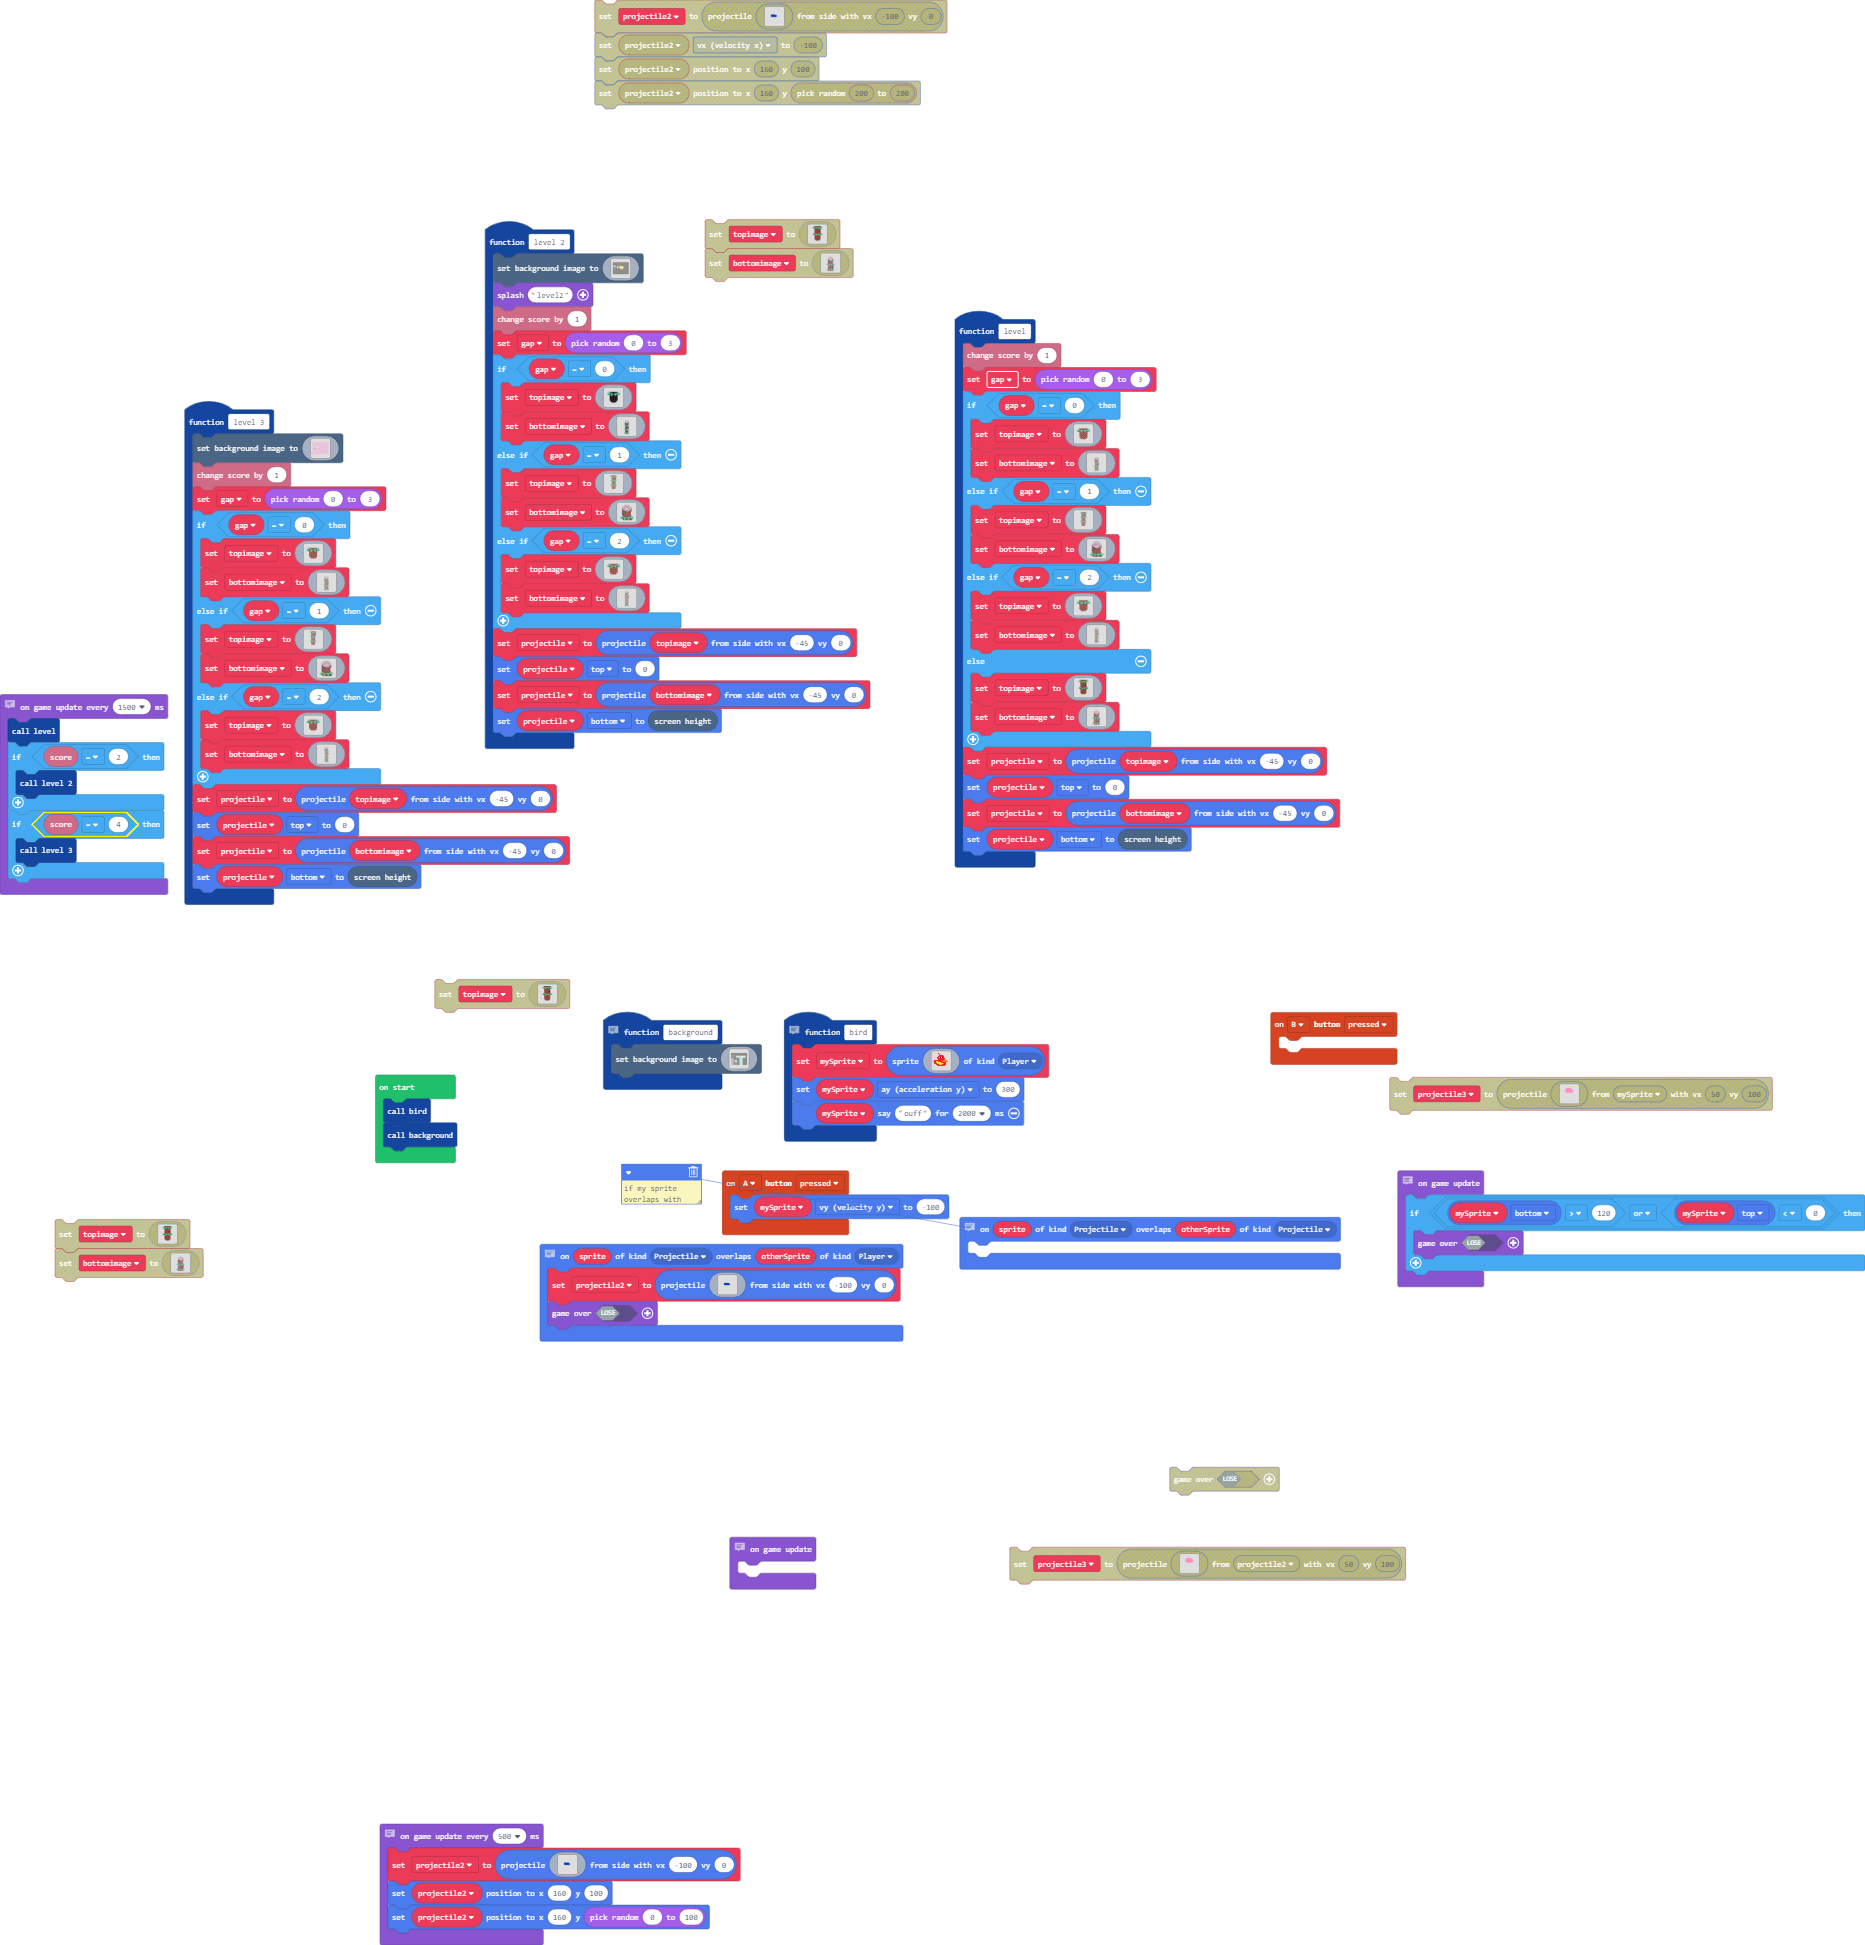
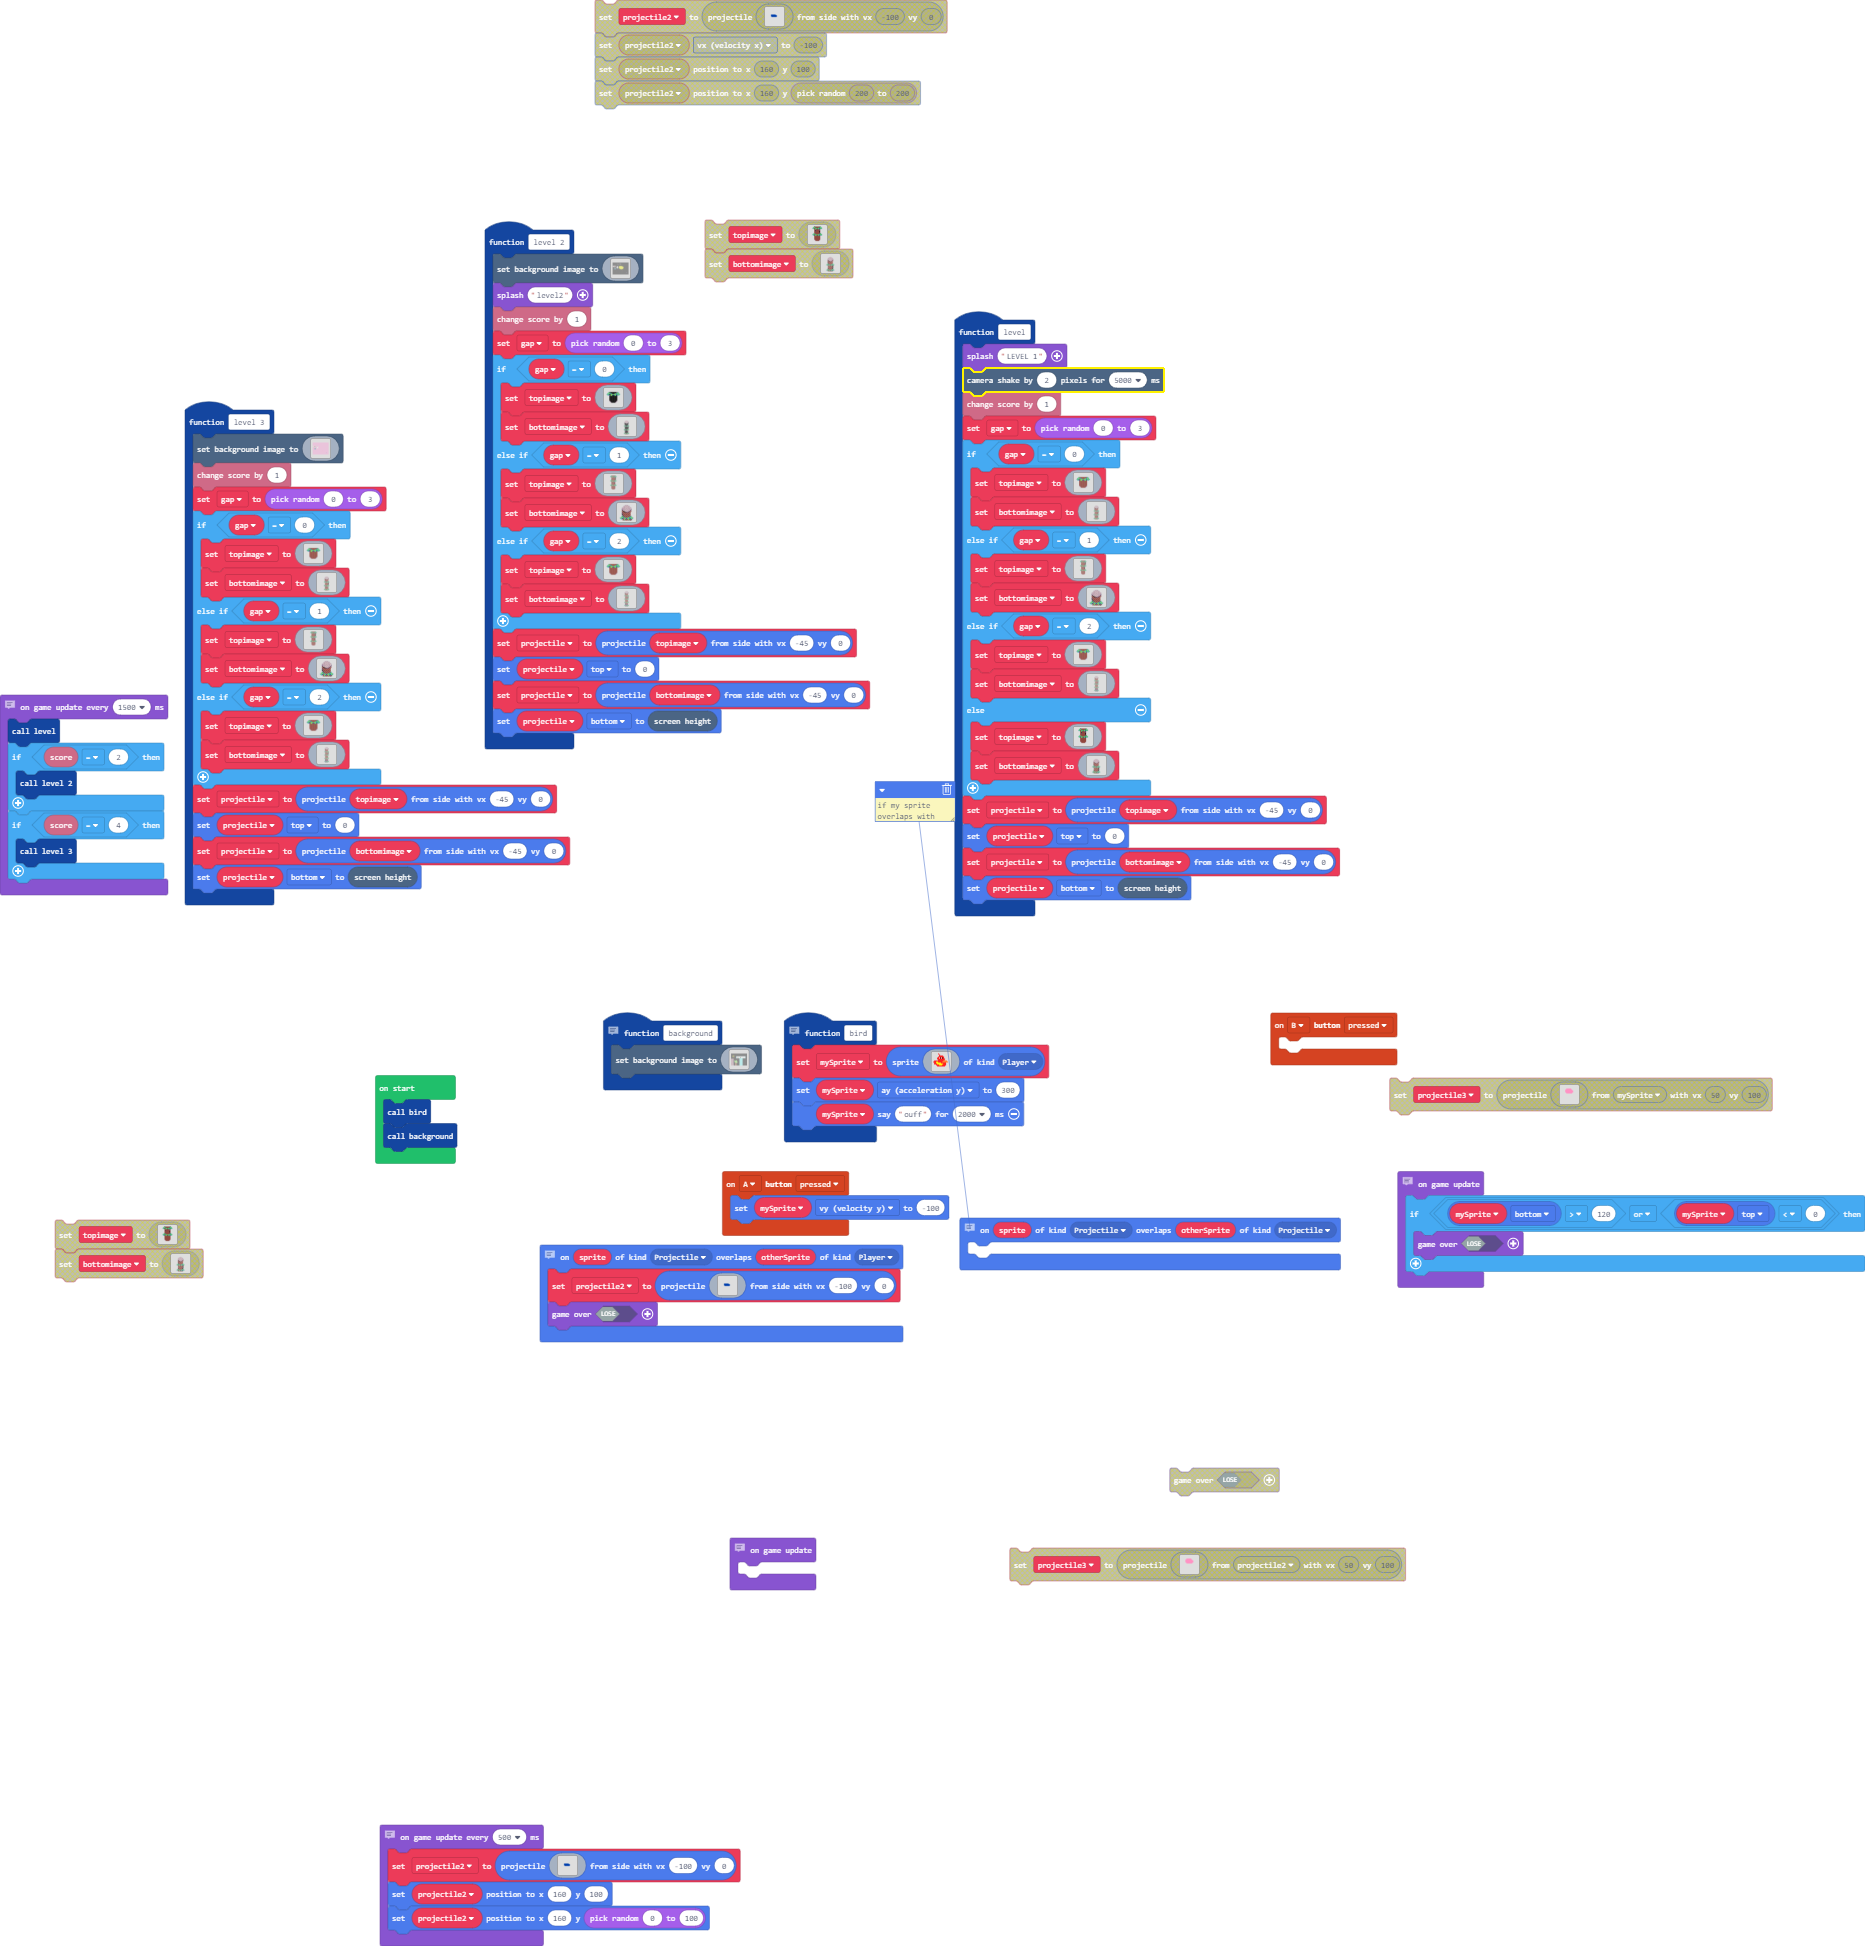
Update main.blocks, main.ts

diff --git a/main.ts b/main.ts
@@ -390,6 +390,8 @@ function level_3 () {
     projectile.bottom = scene.screenHeight()
 }
 function level () {
+    game.splash("LEVEL 1")
+    scene.cameraShake(2, 5000)
     info.changeScoreBy(1)
     gap = Math.randomRange(0, 3)
     if (gap == 0) {
